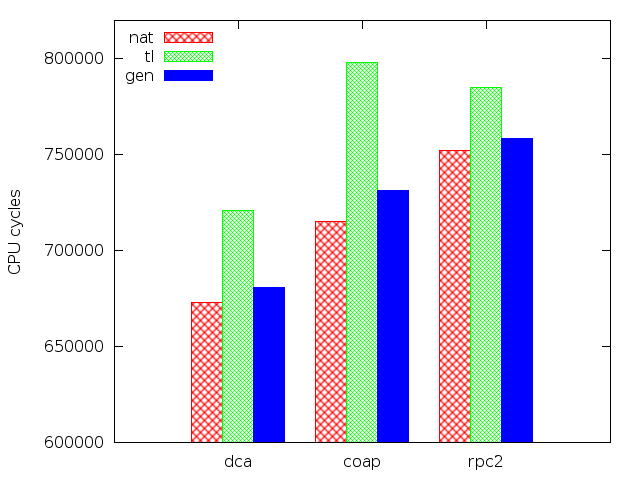
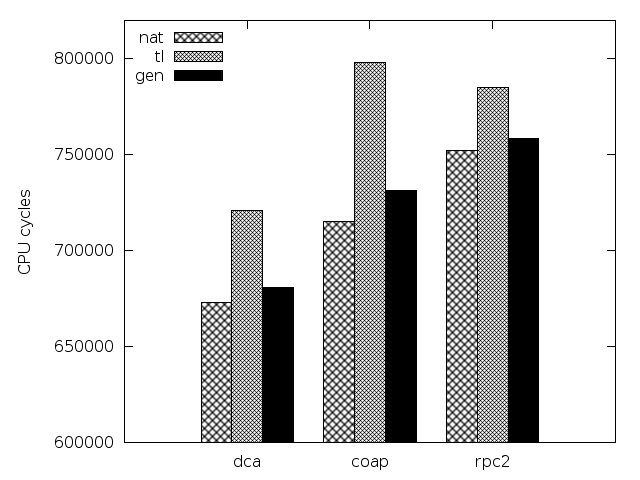
monochrome plots

diff --git a/benchmark/plotting.py b/benchmark/plotting.py
@@ -57,6 +57,6 @@ def plot(script, config, data):
     scriptfile.write(script % config)
     scriptfile.close()
 
-    proc = subprocess.Popen(["/home/alex/local/bin/gnuplot", scriptfile.name])
+    proc = subprocess.Popen(["/usr/bin/gnuplot", scriptfile.name])
     proc.communicate()
     assert proc.returncode == 0, proc.returncode

diff --git a/applications/contiki/plots/ram.py b/applications/contiki/plots/ram.py
@@ -3,7 +3,7 @@ import StringIO
 import os
 
 script = """
-set terminal pngcairo size 640, 480
+set terminal pngcairo mono size 640, 480
 set style fill pattern 1 border
 set output '%(outfile)s.png'
          

diff --git a/applications/contiki/plots/text.py b/applications/contiki/plots/text.py
@@ -3,7 +3,7 @@ import StringIO
 import os
 
 script = """
-set terminal pngcairo size 640, 480
+set terminal pngcairo mono size 640, 480
 set style fill pattern 1 border
 set output '%(outfile)s.png'
          

diff --git a/applications/contiki/plots/pt_ram.py b/applications/contiki/plots/pt_ram.py
@@ -2,7 +2,7 @@ import plotting
 import os
 
 script = """
-set terminal pngcairo size 640, 480
+set terminal pngcairo mono size 640, 480
 set output '%(outfile)s.png'
 
 set style data linespoints

diff --git a/applications/contiki/plots/pt_text.py b/applications/contiki/plots/pt_text.py
@@ -2,7 +2,7 @@ import plotting
 import os
 
 script = """
-set terminal pngcairo size 640, 480
+set terminal pngcairo mono size 640, 480
 set output '%(outfile)s.png'
 
 set style data linespoints

diff --git a/applications/contiki/plots/cpu.py b/applications/contiki/plots/cpu.py
@@ -2,7 +2,7 @@ import plotting
 import os
 
 script = """
-set terminal pngcairo size 640, 480
+set terminal pngcairo mono size 640, 480
 set output '%(outfile)s.png'
 
 set style data histogram

diff --git a/applications/contiki/plots/loc.py b/applications/contiki/plots/loc.py
@@ -3,7 +3,7 @@ import StringIO
 import os
 
 script = """
-set terminal pngcairo size 640, 480
+set terminal pngcairo mono size 640, 480
 set output '%(outfile)s.png'
 
 set style data histogram
